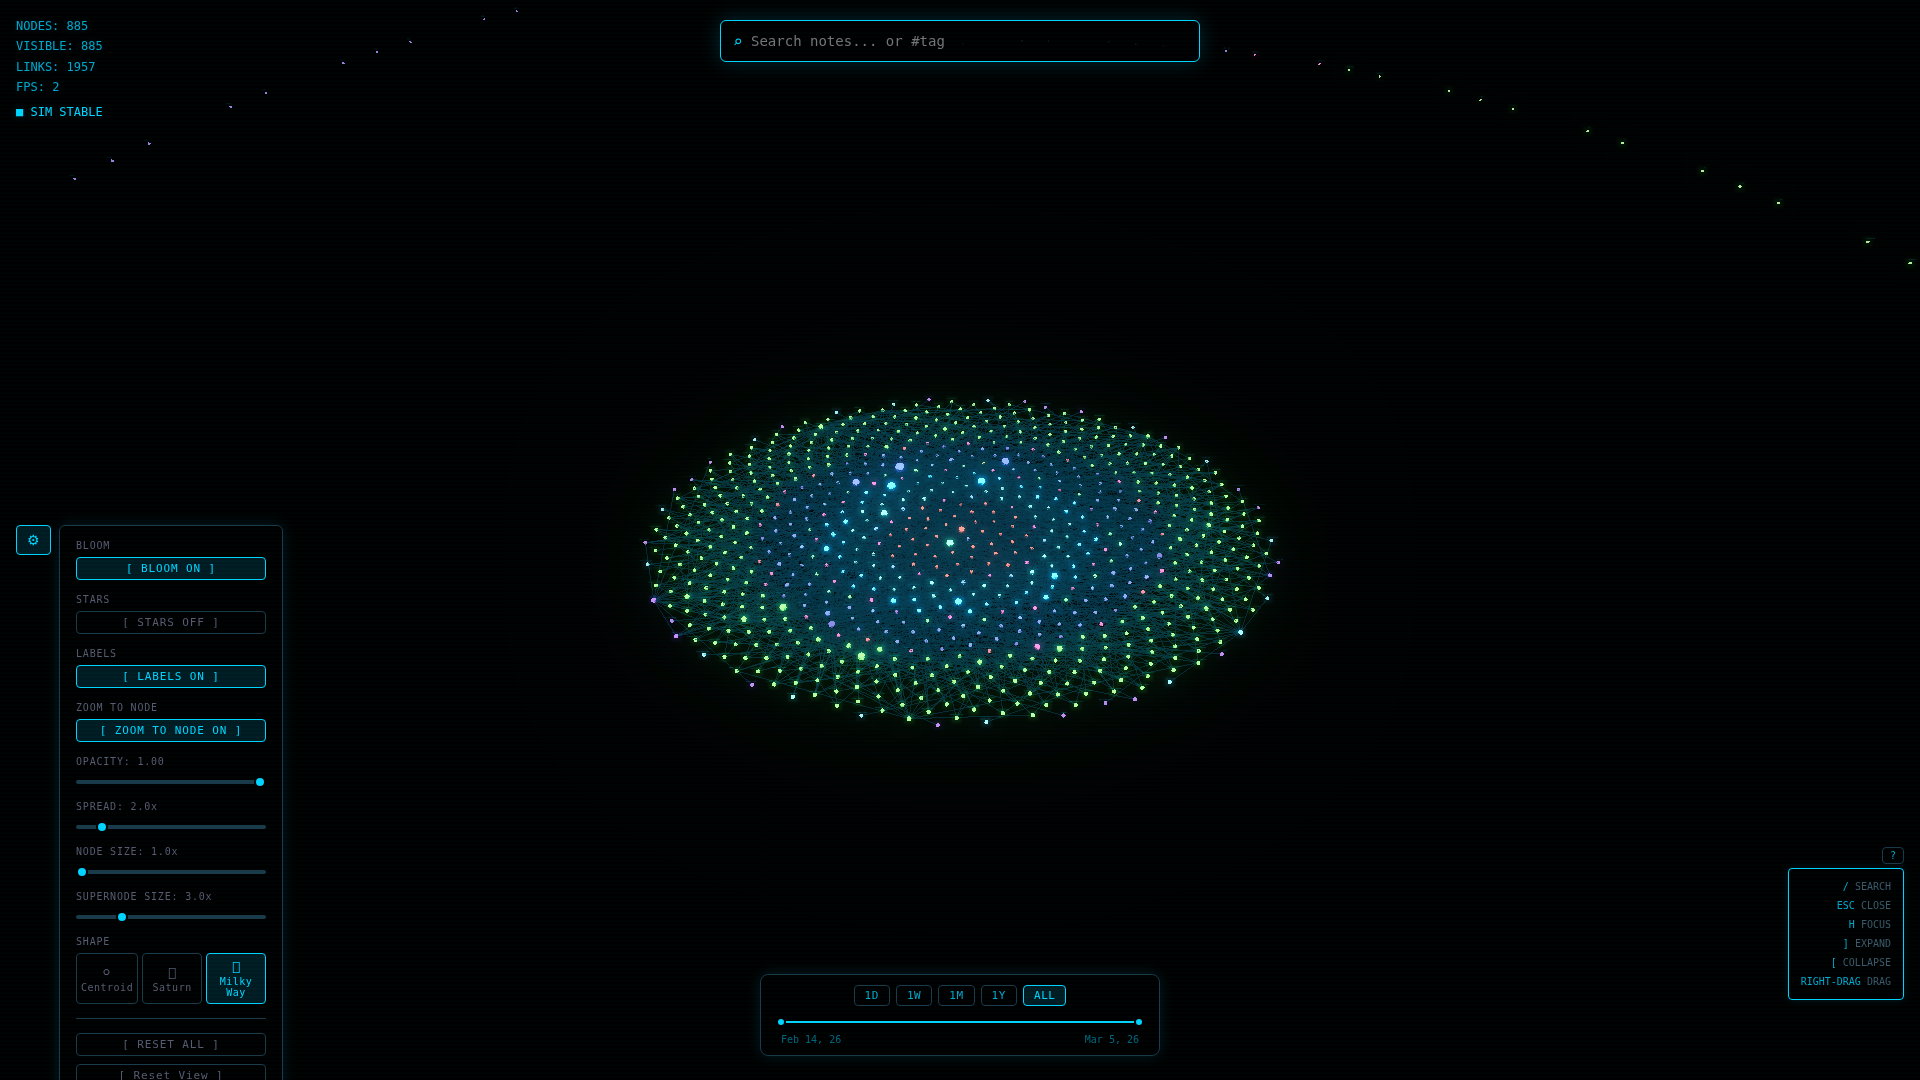
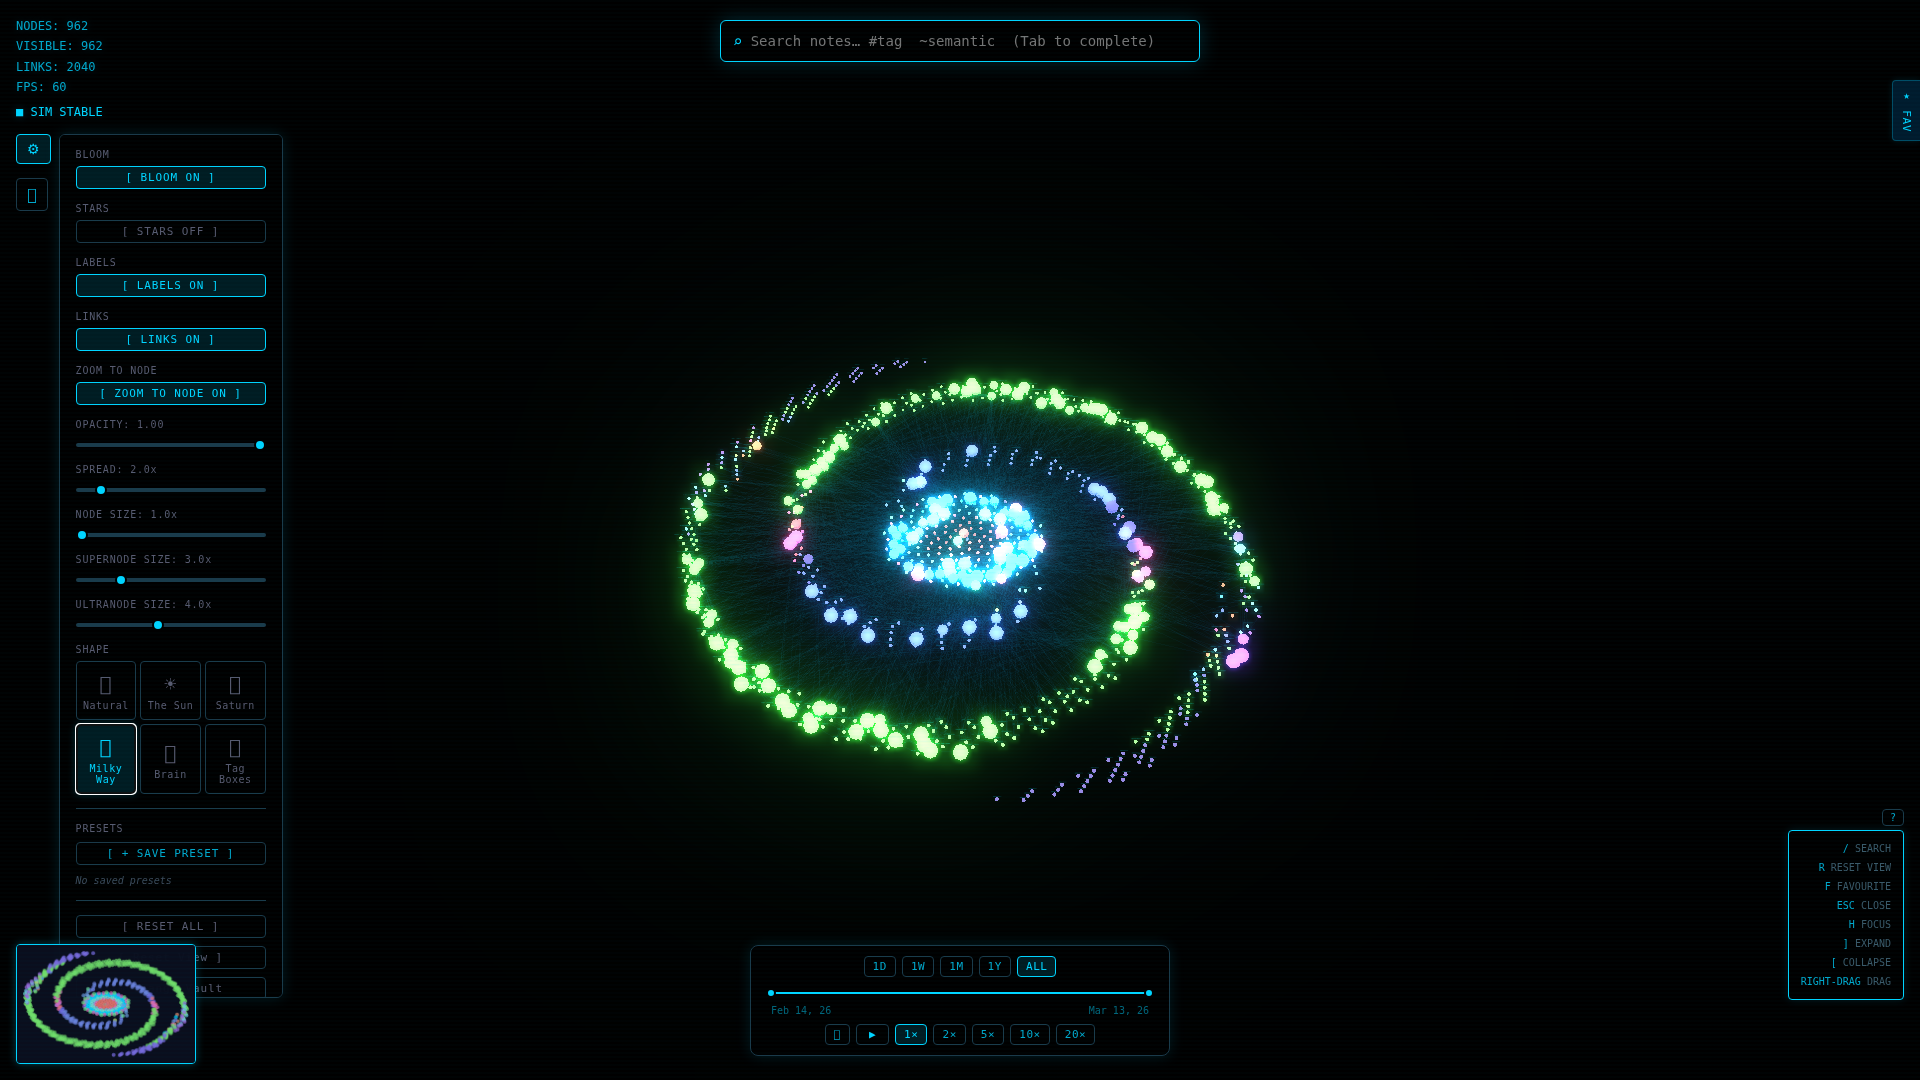
docs: update README screenshots + video
- Replace timelapse.mp4 with correct video
- Retake Milky Way screenshot (updated layout)
- Add Natural and Sun screenshots (previously missing)
- Remove Centroid from shapes table (shape removed)

diff --git a/README.md b/README.md
@@ -21,9 +21,8 @@ Jarvis UI renders your entire Obsidian vault as a living, interactive 3D force-d
 | 🧠 **Brain** — nodes arranged in an anatomical brain mesh | ![Brain](./screenshots/jarvis-brain-preview.png) |
 | 🪐 **Saturn** — sphere + tilted ring for orphan nodes | ![Saturn](./screenshots/jarvis-saturn-final.png) |
 | 🌌 **Milky Way** — flat 2-arm Archimedean spiral | ![Milky Way](./screenshots/jarvis-milkyway-final.png) |
-| 🌿 **Natural** — organic force-directed layout |  |
-| ☀ **The Sun** — hierarchical 3-shell sphere (ultra/super/regular tiers) |  |
-| ⚛ **Centroid** — standard force-directed cluster |  |
+| 🌿 **Natural** — organic force-directed layout | ![Natural](./screenshots/jarvis-natural.png) |
+| ☀ **The Sun** — hierarchical 3-shell sphere (ultra/super/regular tiers) | ![Sun](./screenshots/jarvis-sun.png) |
 
 ---
 
